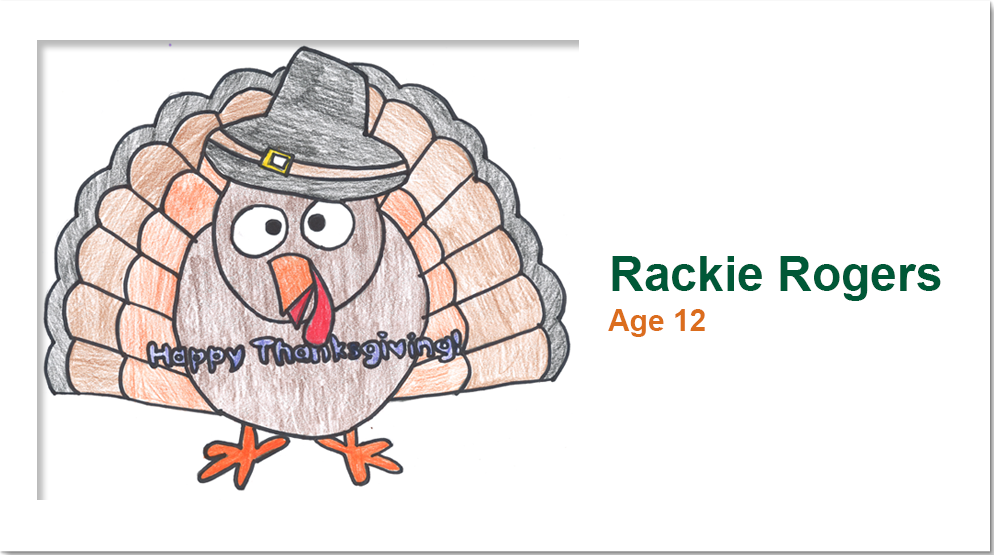
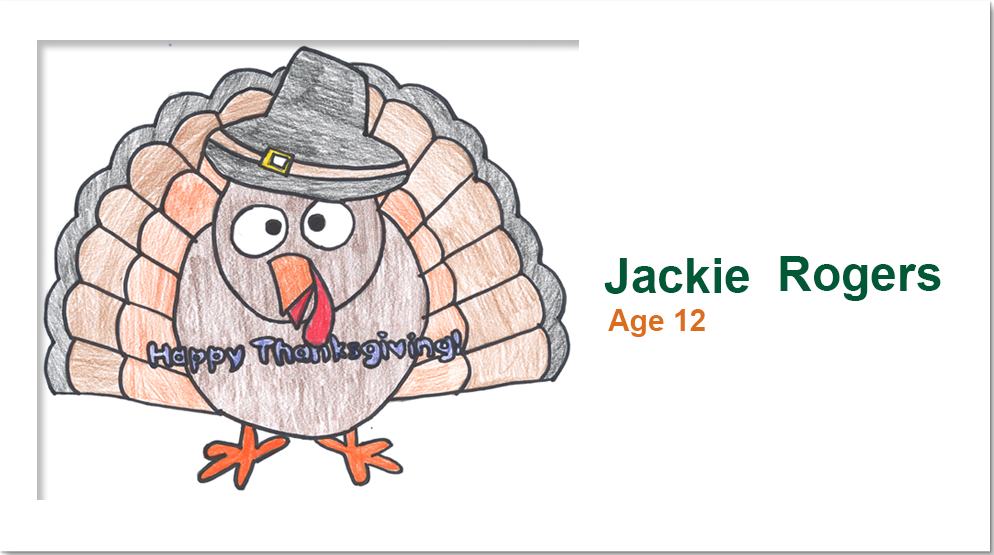
Updated names and leaf color

Changed region(s): [[0.5926, 0.4595, 0.7797, 0.5514]]

diff --git a/Thanksgiving/index.html b/Thanksgiving/index.html
@@ -129,7 +129,7 @@
             
             
             //SIZE BREAK
-            console.log(game.world.width);
+
             turkeyTail = game.add.sprite(0, 0, 'turkeyTail');
             //turkeyTail.x = game.world.centerX-(turkeyTail.width/2);
             //turkeyTail.y = game.world.centerY-(turkeyTail.height/2);
@@ -187,8 +187,8 @@
                     branch2.y = instructions.y+instructions.height;    
                 }
             }else{
-                thanksMobile.scale.setTo(1.5,1.5);
-                instructionsMobile.scale.setTo(1.9,1.9);
+                thanksMobile.scale.setTo(2,2);
+                instructionsMobile.scale.setTo(2.2,2.2);
                thanksMobile.visible = true;
                 instructionsMobile.visible = true;
                 
@@ -433,7 +433,6 @@
                 newY = game.world.height * .8;
                 yScale = ((newX*.6) / art1.height);
                 art1.scale.setTo(xScale, yScale);
-                console.log("here");
             }else{
                 newX = game.world.width * .98;
                 xScale = (newX / art1.width);
@@ -1290,10 +1289,8 @@ shake_timer.loop(randomizeInterval?(Math.random()*shakeInterval+shakeInterval):s
             }
         }
  
-        if(shakeAxis!="y"){this.game.camera.x += shift1; console.log("HERE");}
-        if(shakeAxis!="x"){this.game.camera.y += shift2; console.log("HERE");}
-    
-            console.log(this.game.camera.position);
+        if(shakeAxis!="y"){this.game.camera.x += shift1;}
+        if(shakeAxis!="x"){this.game.camera.y += shift2;}
  
         shakeCount--;
  
